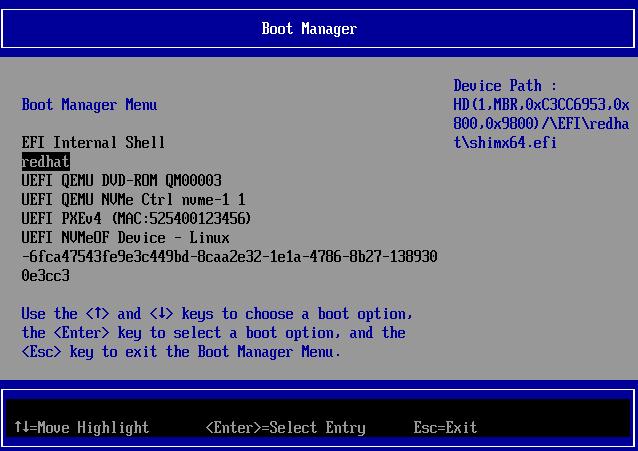
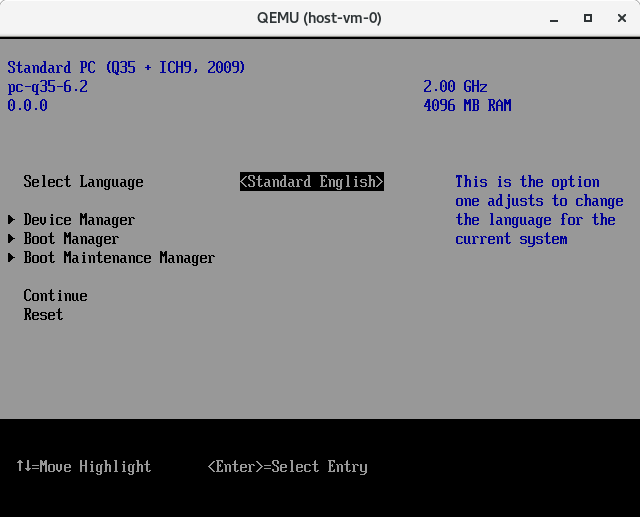
readme: new readme pictures for uefi

diff --git a/README.md b/README.md
@@ -579,19 +579,51 @@ rhel-storage-105:host-vm(john_fix_7) > ./start.sh
 Connect with "vncviewer rhel-storage-105.storage.lab.eng.bos.redhat.com:0"
 ```
 
-Once you connect to the `host-vm` console, you will observe the NVMe/TCP NBFT boot process starting.
+Once you connect to the `host-vm` console, you will observe the UEFI boot process starting.
 
-Immediately Press the ESC button to enter the UEFI setup menu and change the
-device boot order so the EFI Internal Shell will start first, then reboot the VM.
+Immediately Press the ESC button to enter the UEFI setup menu.
 
-![alt uefi boot order](images/uefi_boot_order.png)
+![alt uefi boot menu](images/uefi_boot_menu.png)
 
-The UEFI Shell will execute the startup script, let the countdown expire.
+Select the Boot Manager.
 
-![alt uefi count down](images/uefi_countdown.png)
+![alt uefi boot menu](images/uefi_boot_manager.png)
 
-The firmware will now try to connect to the target, the process may take a few seconds.
+Select the EFI Internal Shell and hit `Enter`.
 
-![alt uefi connect ongoing](images/uefi_connection_ongoing.png)
+![alt uefi boot select uefi](images/uefi_boot_select.png)
+
+The EFI Internal Shell will run and `NvmeOfCli setattempt Config` will run.
+Allow the coutdown to expire so that `startup.nsh` runs.  This only needs to be
+done once. This will program your NBFT/ACPI table with the information
+programmed in the *host-vm/eficonfig/config* attempt file.
+
+![alt uefi count down](images/uefi_count_down.png)
+
+After `!!!The UEFI variables has been set successfully!!!` the EFI Shell will
+return to the Boot Manager menu. Select `Reset` to continue.
+
+![alt uefi reset](images/uefi_reset.png)
+
+The EFI firmware will reset the system an boot from NVMe/TCP.
+
+![alt uefi reset](images/uefi_tcp_boot.png)
+
+## To Restart the host-vm
+
+**To restart the host-vm after shutdown -h**
+
+Subsequent to booting the *host-vm* for the first time the NBFT/ACPI table
+should not need to be programmed by running `startup.nsh` again. To boot the
+*host-vm* after shutdown run the `./start.sh` script again. Connect to the
+*host-vm* console and immediately press the ESC button to stop the
+`startup.nsh` countdown. If needed, type `exit` at the *Shell>* prompt.
+
+![alt uefi reset](images/uefi_no_attempt.png)
+
+Then Enter `Reset` at the UEFI setup menu to boot the VM. The UEFI will connect
+to the NVMe/TCP target and boot.
+
+![alt uefi reset](images/uefi_reset.png)
 
 **END**
